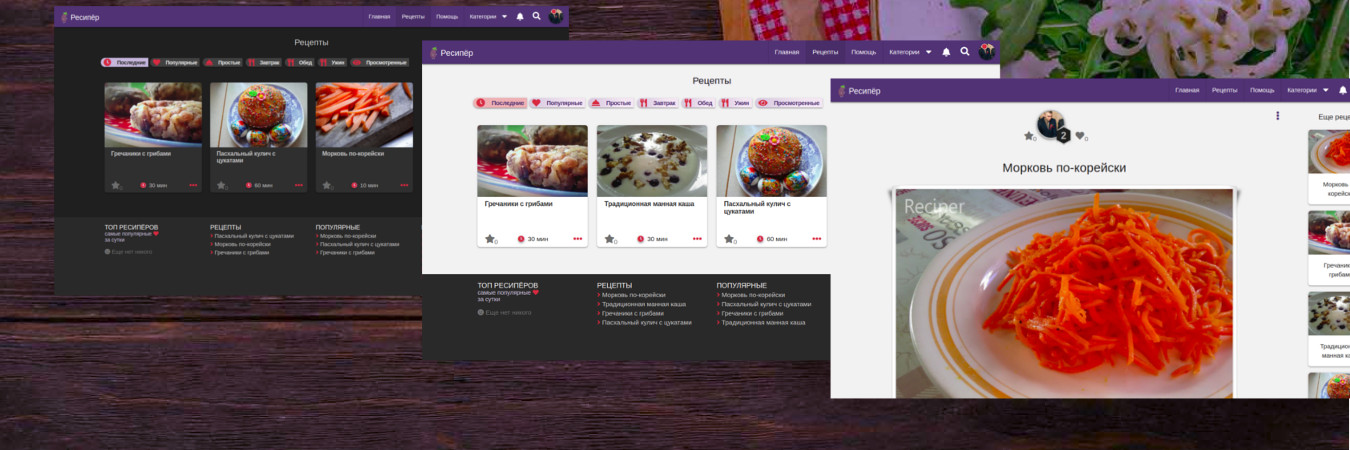
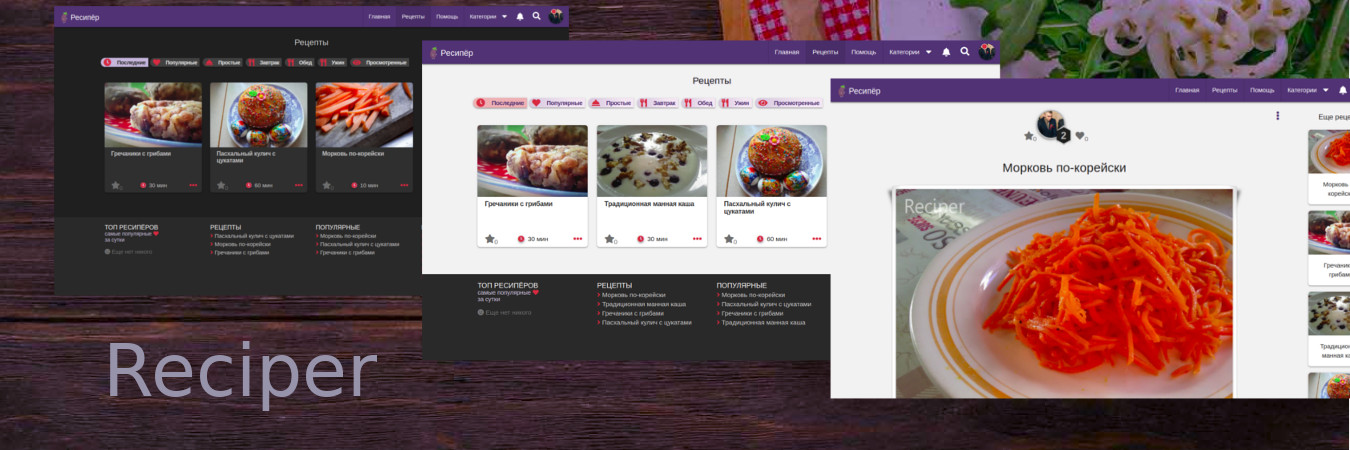
-0- Replaced image and added info to readme.md

Changed region(s): [[0.0622, 0.7467, 0.28, 0.9022]]

diff --git a/readme.md b/readme.md
@@ -1,16 +1,32 @@
-![reciper](https://raw.githubusercontent.com/SerhiiCho/reciper/master/storage/app/public/big/recipes/default.jpg)
+![reciper](https://github.com/SerhiiCho/reciper/blob/master/storage/app/public/other/wallpaper.jpg?raw=true)
 
-## Using
+## About
+
+It's a free web application that unites people who love cooking and charing their recipes with other people. People can register and have their own account where they can publish cooking recipes, and earn experience and popularity points for different actions. Such as publishing recipe, likes, views and starts that they receive from other users. Every register user also has free access to the statistic page, where they can watch stats. For example chart (chart.js with vue.js) with data that shows how many likes, views and stars they received in particular month and general statistic.
+
+## Technologies
+
 * [Laravel - PHP framework](https://github.com/laravel/laravel)
 * [Vue.js - JavaScript framework](https://github.com/vuejs/vue)
 * [Materialize - CSS framework](https://materializecss.com)
-
-## Laravel Packages
 * [Intervention/image](http://image.intervention.io/)
 * [ARCANEDEV/LogViewer](https://github.com/ARCANEDEV/LogViewer)
 * [laravel/dusk](https://github.com/laravel/dusk)
 * [TinyMCE Editor](https://www.tinymce.com/)
 
-## Get started with Docker
+## Get started (without Docker)
+
+1. `cp .env.example .env` copy the *env.example* and create *.env*
+2. Open just created *.env* file and fill database credentials
+3. Create database with the name that you filled in *.env* file in DB_DATABASE field
+4. `composer install` to install all PHP packages
+5. `php artisan key:generate` to generate laravel app key
+6. `php artisan wipe`, migrate all migrations and seed the database
+7. `php artisan storage:link`, create a link in public folder to storage
+8. `php artisan serve` to start a server *(go to localhost:8000)*
+9. `vendor/bin/phpunit` make sure tests are green
+
+## Get started (with Docker)
+
 1. `docker-compose up -d` and wait untill it's done
 2. `docker-compose exec server /start.sh` *(go to localhost)*
